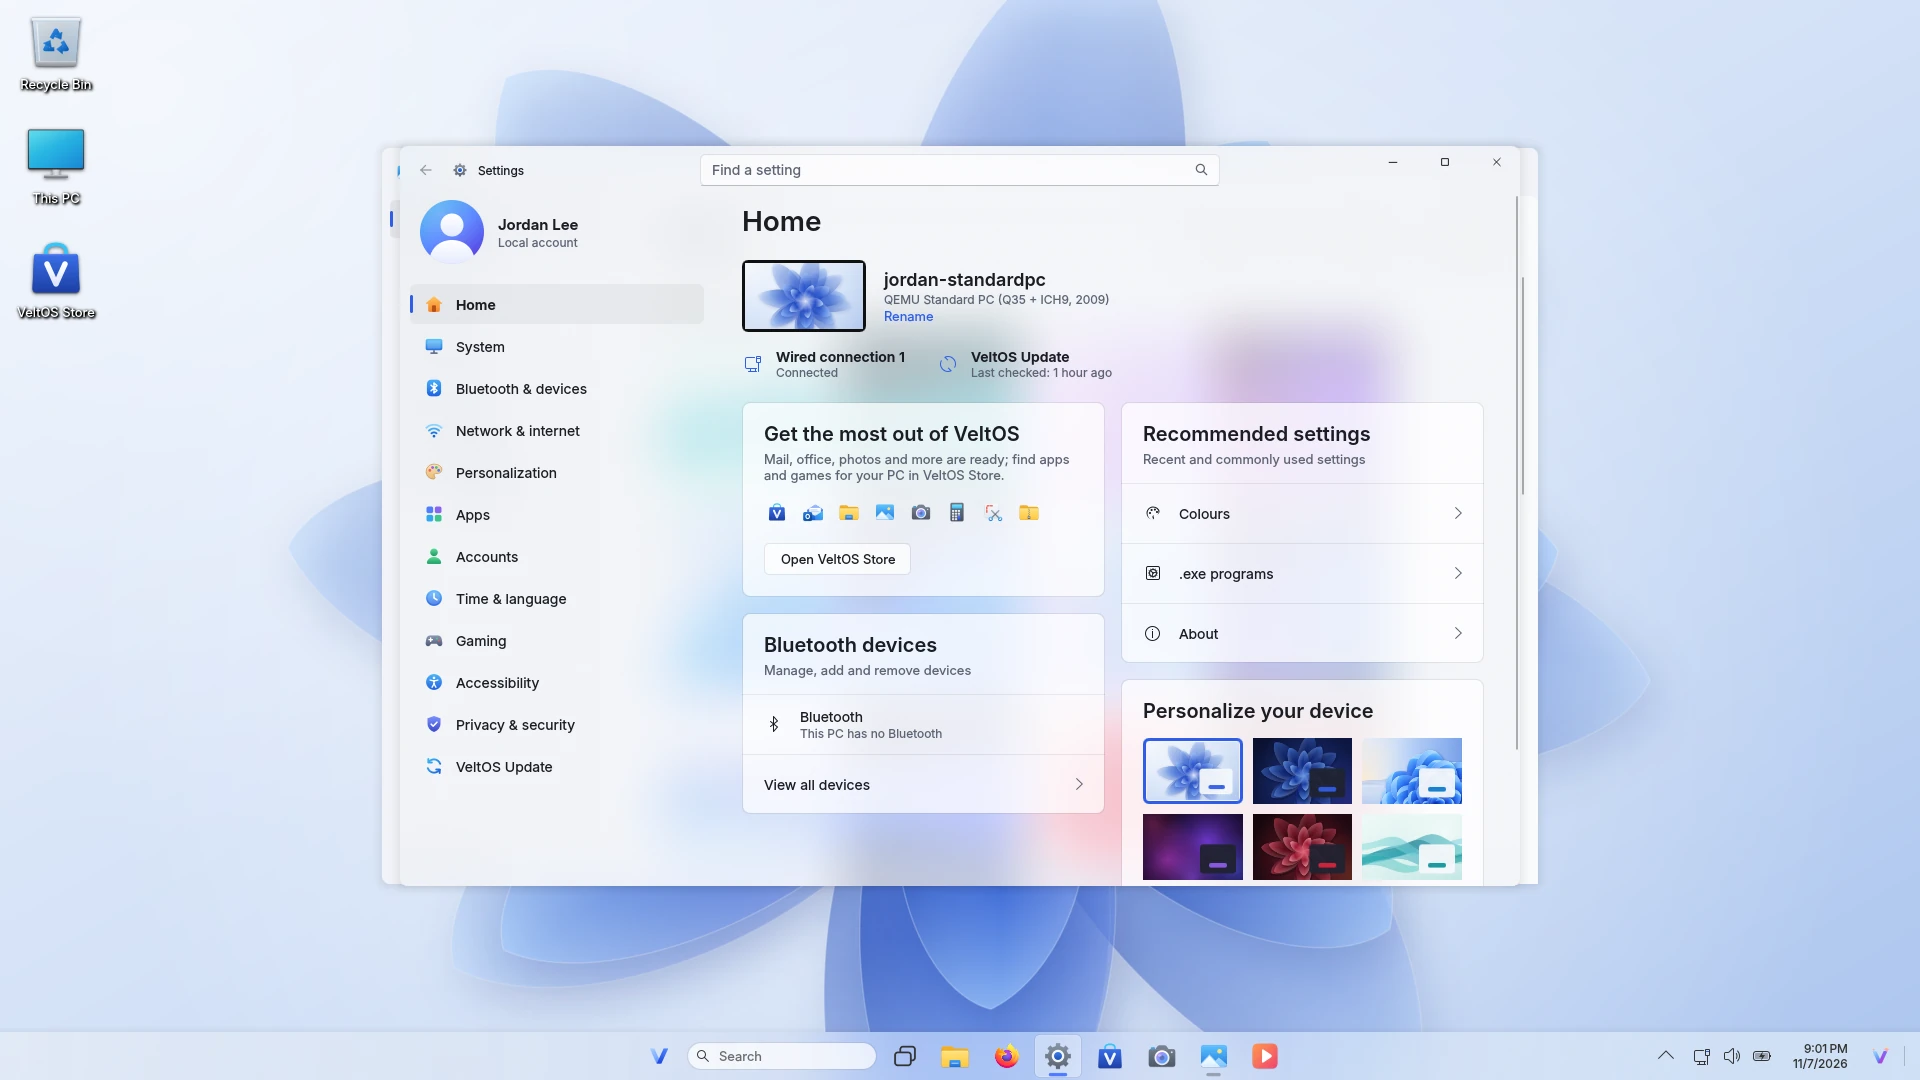
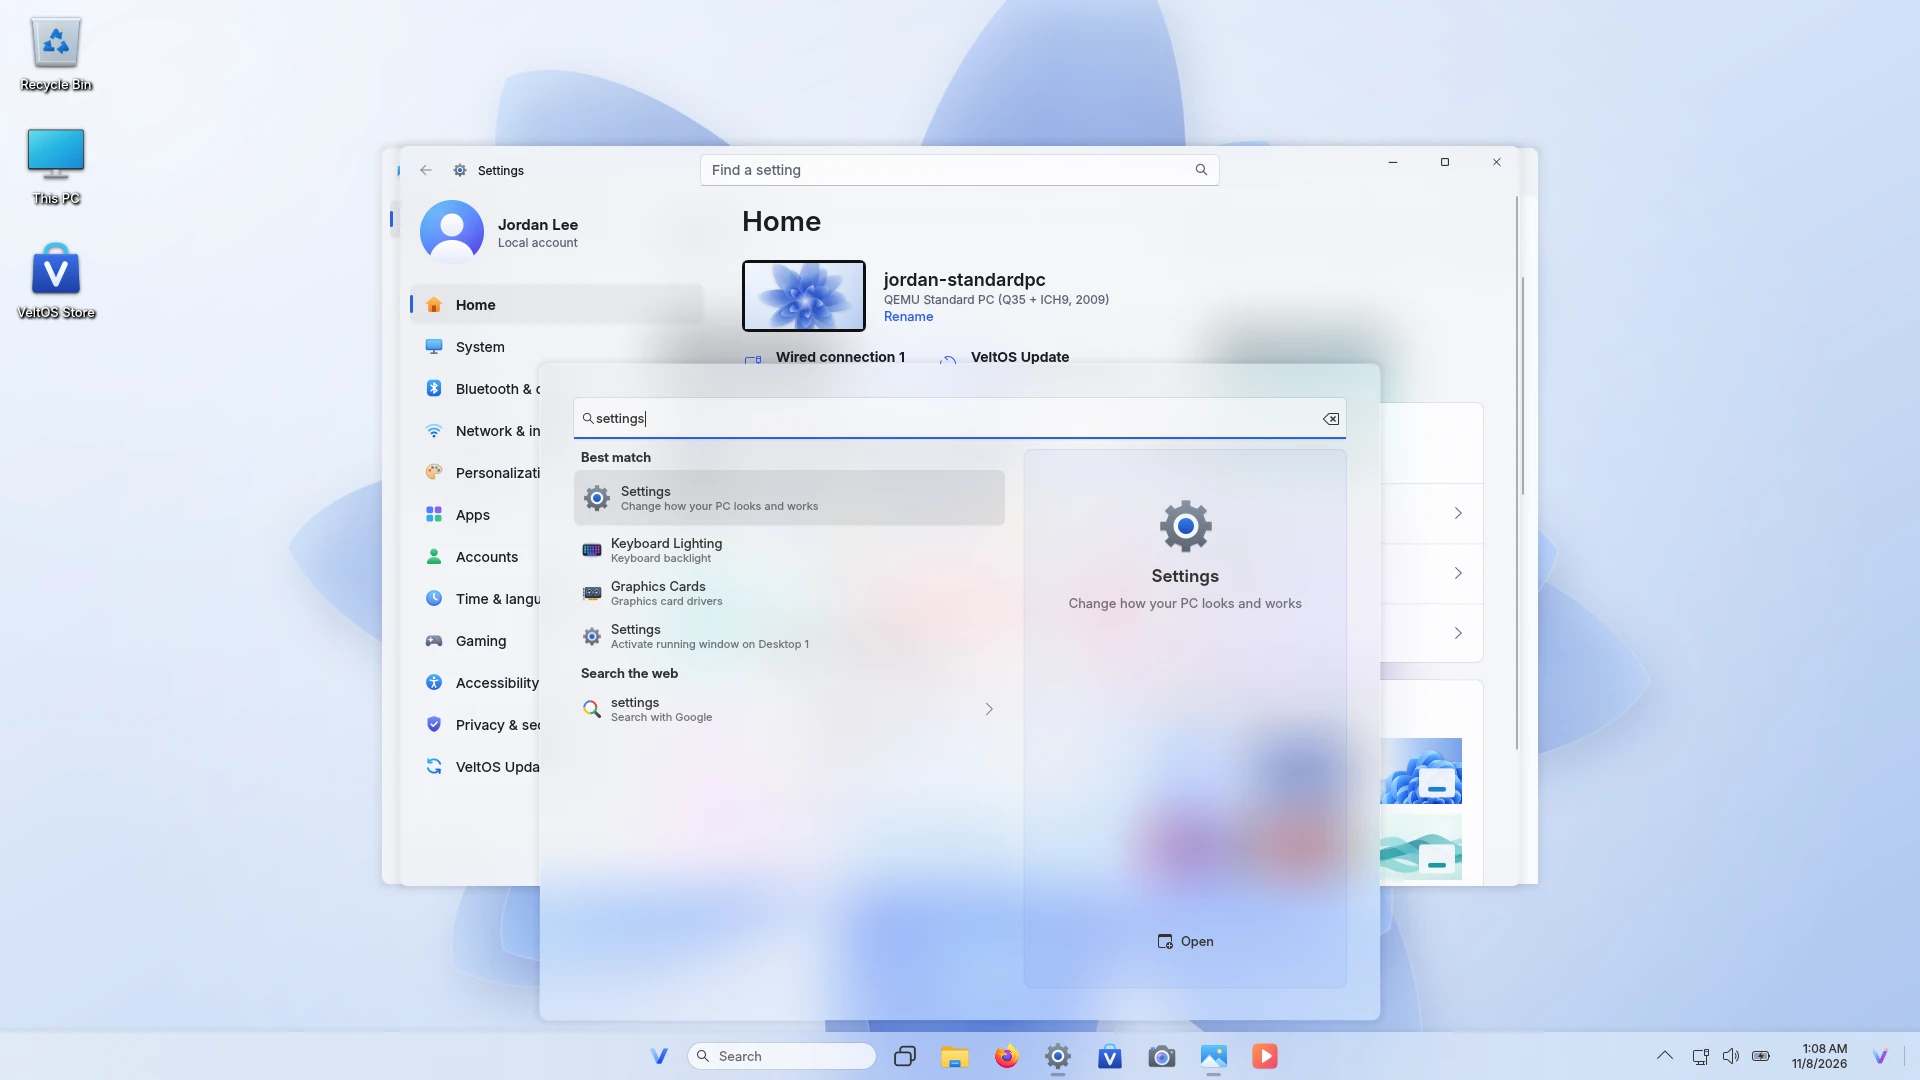
Record the VeltOS 1.3 release; Start and search pictures with see-through fields
Release v1.3 by GitHub Actions (run 42420240675, all steps passed, boot
tests UEFI/BIOS/Secure Boot): VeltOS-1.3-amd64.iso, 2,112,608,256 bytes,
SHA-256 c4bd17c37d7b5bf19fd30d9dec2224ee45ea2672f67e66eebdfa5e076662c290
(the downloaded file's hash matches). Now that 1.3 is the download, the
website's Start, search and desktop pairs, the link preview and the
README's tour animation show 1.3's see-through search fields (retaken in
the dev VM; 1.2's light search picture had no search window in it).

diff --git a/docs/dev/status.md b/docs/dev/status.md
@@ -1,6 +1,6 @@
 # VeltOS Status
 
-Last updated: 2026-11-08 (items 166-168 for VeltOS 1.3: see-through search fields, Firefox's
+Last updated: 2026-11-08 (items 166-169, VeltOS 1.3 released: see-through search fields, Firefox's
 downloads in the Windows 11 look, the system drive always in This PC; items 159-165, VeltOS 1.2
 released 2026-11-07: see-through acrylic everywhere,
 also over windows and with a maximized window, Settings acrylic and a
@@ -329,7 +329,7 @@ Product owner's list of 2026-11-02, night (website, updates, GitHub Actions):
 166. [x] See-through search fields (product owner, 2026-11-07: "the search fields are still black or white in Start and search; make them see-through for dark and light mode; Settings' search does the same when clicked"): Start's field and the search window's field are a see-through layer on the acrylic (dark: white 6 %, black 16 % while typing; light: white 42 %, 50 % while typing), Settings' title bar search and every Settings text box stay see-through while typing (`Theme.fieldActive`; only a slider's thumb and pop-ups stay opaque). Dev VM, both modes: `tests/results/2026-11-08-search-firefox-drive/`; tests: veltos-desktop TaskbarTests (no `surface`, the field colours), veltos-settings `test_title_bar_search_stays_see_through_while_typing` (EN/TR, the focused box's alpha < 255)
 167. [x] Firefox's downloads in the Windows 11 look (product owner, 2026-11-07): the downloads panel with a "Downloads" ("İndirmeler") heading, rounded rows, a thin accent progress line, quiet buttons and "Show all downloads" as its own row; the Library window ("Show all downloads", also about:downloads) with Windows 11's window colours, a frameless toolbar, 36 px navigation rows and the list on a rounded card, the selected download in an accent tint. Found on the way: the progress rules never applied (the sheet's default namespace is XUL's, the progress bar is HTML; `*|*` now). Dev VM with Firefox ESR 153, both modes, a slow 3 GB download: `tests/results/2026-11-08-search-firefox-drive/`; veltos-desktop test: Library rules, both headings, no bare `.downloadProgress`, every declaration `!important`
 168. [x] File Explorer: the running system's drive always in This PC (product owner, 2026-11-07: "after the update File Explorer did not show the VeltOS disk"): lsblk shows an installation made with "Encrypt system" as a `crypt` volume, which 1.0-1.2 left out, so This PC had no system drive there; now crypt, RAID, md and multipath volumes are listed (each once), and the mounted root is added when lsblk shows nothing. The system drive is "Local Disk (VeltOS)" ("Yerel Disk (VeltOS)"), also in the address bar and Properties. Dev VM: a LUKS volume on a loop device listed by 1.3.0~dev1 and not by release 1.2's places.py; the owner's own installation was not inspected (whether it is encrypted is not known). Tests: encrypted root, LVM on LUKS with RAID members, broken lsblk, the title (EN/TR)
-169. [ ] Release VeltOS 1.3 (product owner, 2026-11-07: "yeni sürüm çık iso al ve siteye de çık"): notes in docs/release-notes/1.3.md, veltos-desktop, veltos-explorer and veltos-settings at 1.3.0, veltos-base and calamares-settings-veltos at 1.3.0 (release-bump.py now always bumps the installer package, whose branding changes with every release: release-check's "changed since v1.2" would have refused it at 1.2.0), release-check "ready"; published by GitHub Actions (pending)
[1 lines of base64/hex data omitted]
 
 Release rule (product owner, 2026-10-27): ISOs are built for the owner's
 manual tests. A new version is released (GitHub release with ISO and

diff --git a/docs/dev/development-log.md b/docs/dev/development-log.md
@@ -3,6 +3,22 @@
 Newest entries first. Record what was done, what was verified and what
 went wrong, so the next person can trust the state of the repository.
 
+## 2026-11-08 — VeltOS 1.3 published by GitHub Actions
+
+- Run 42420240675 of `.github/workflows/release.yml` for 9602605, all
+  steps passed in 59 minutes (22:21-23:20 UTC): release check, packages
+  and ISO 49 min, boot tests UEFI, BIOS and Secure Boot about 2 min each,
+  the signed repository, the release, the website commit 01fe97a.
+- Release v1.3: `VeltOS-1.3-amd64.iso`, 2,112,608,256 bytes (under
+  2 GiB), SHA-256
[1 lines of base64/hex data omitted]
+  downloaded to the product owner's Desktop and the hash checked.
+- Website: once 1.3 was the download, the Start, search and desktop pairs,
+  the link preview and the README's tour animation were replaced by the
+  pictures retaken on 2026-11-08 (`out/vm/make-site-13.py`). 1.2's light
+  search picture showed only Settings: the search window had not opened
+  in that shot; the new one shows it.
+
 ## 2026-11-08 — Release 1.3 prepared
 
 - `release-bump.py 1.3`: veltos-base, veltos-desktop, veltos-explorer and
